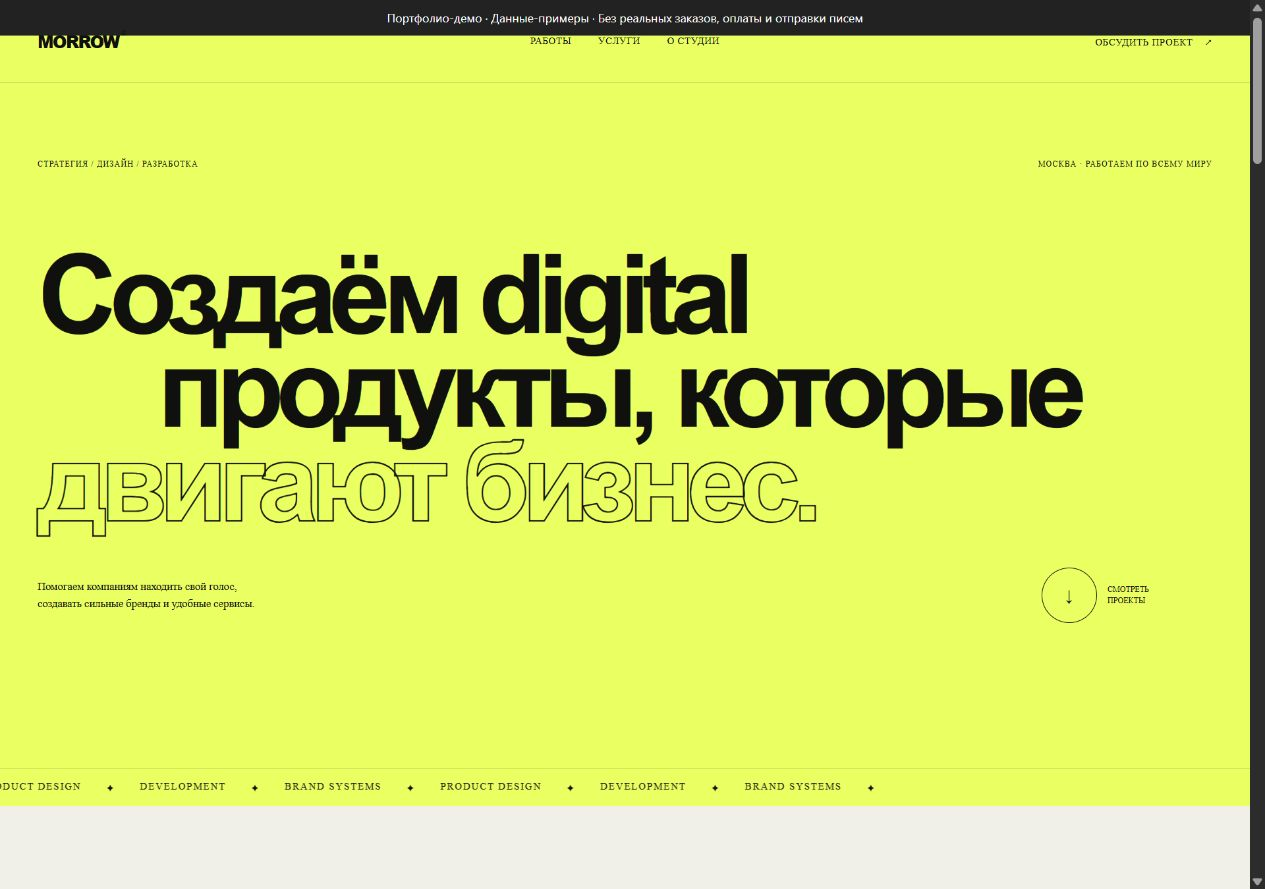
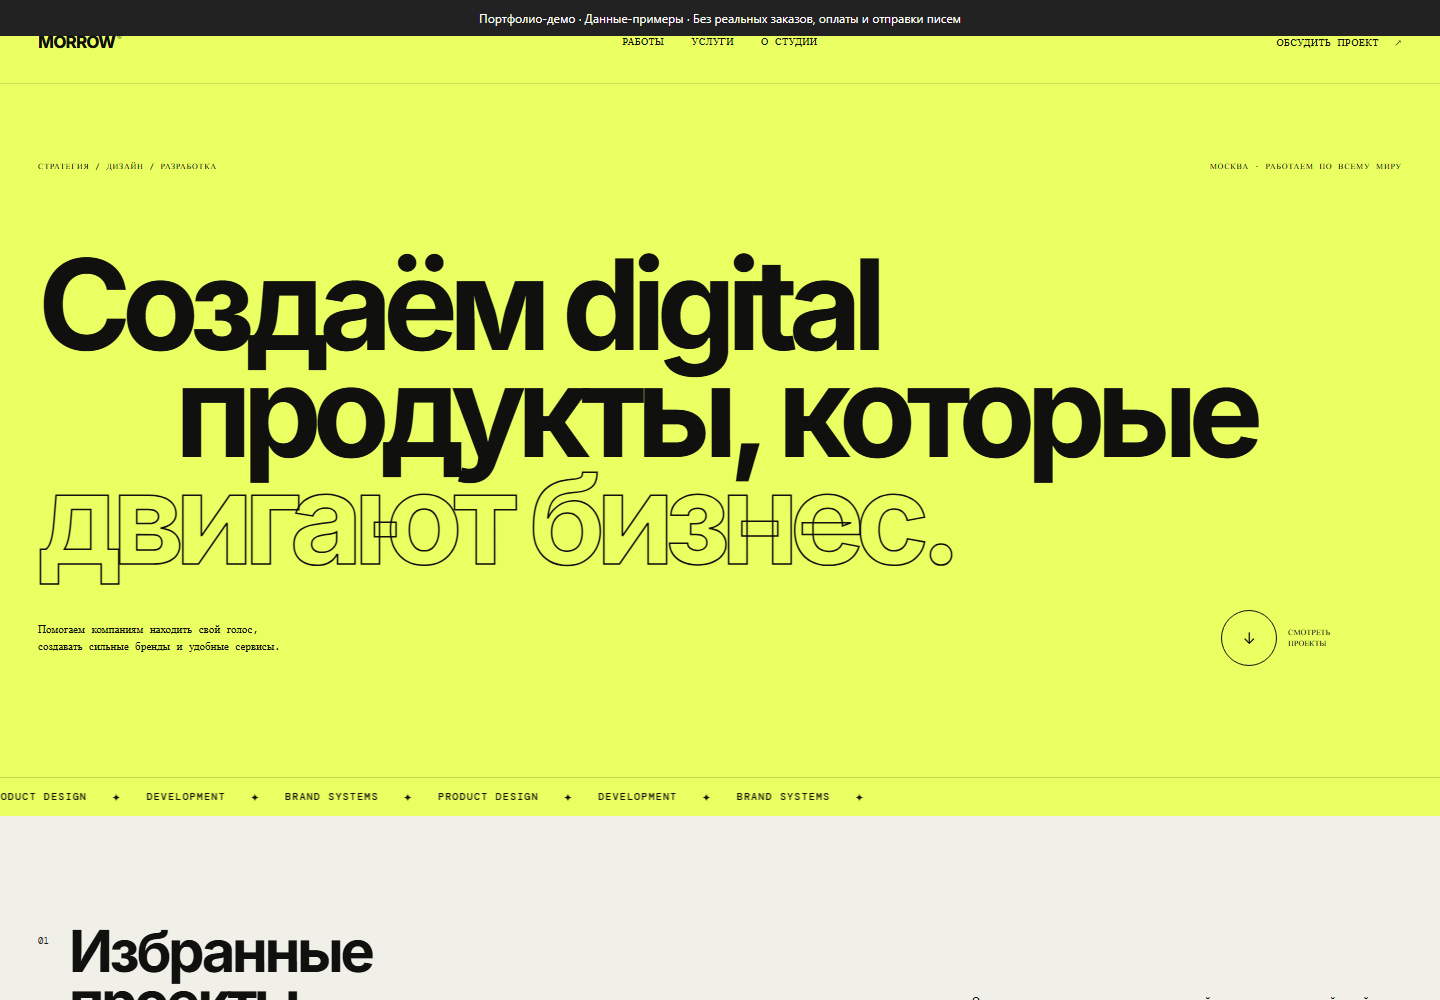
Complete responsive interactions and add browser regression checks

diff --git a/index.html b/index.html
@@ -36,7 +36,7 @@
         <article class="project project-wide" data-category="product"><a href="#case-nova"><div class="project-visual nova"><div class="nova-copy"><span>NOVA/</span><strong>Деньги.<br />Только проще.</strong><small>Мобильный банк нового поколения</small></div><div class="phone"><div class="phone-bar"><i></i><span>9:41</span></div><p>Добрый день, Алексей</p><strong>286 400 ₽</strong><div class="chart"><i></i><i></i><i></i><i></i><i></i><i></i><i></i></div><div class="bank-row"><i></i><span><b>Продукты</b><small>4 счёта</small></span><em>→</em></div><div class="bank-row"><i></i><span><b>Переводы</b><small>По номеру телефона</small></span><em>→</em></div></div></div><div class="project-caption"><div><span>01 / Product</span><h3>Nova Bank</h3></div><p>Стратегия, айдентика и мобильное приложение для цифрового банка.</p><i>↗</i></div></a></article>
         <article class="project" data-category="brand"><a href="#case-flora"><div class="project-visual flora"><span class="flora-logo">flora<sup>®</sup></span><div class="bottle"><i>F</i><span>daily<br />balance</span><small>30 CAPSULES</small></div><div class="flora-note">your routine,<br /><em>naturally.</em></div><span class="leaf one"></span><span class="leaf two"></span></div><div class="project-caption"><div><span>02 / Brand</span><h3>Flora Lab</h3></div><p>Бренд-система для линейки daily wellness.</p><i>↗</i></div></a></article>
         <article class="project" data-category="web"><a href="#case-arka"><div class="project-visual arka"><div class="arka-top"><span>ARKA</span><span>ARCHITECTURE & INTERIORS</span></div><strong>Spaces<br />with intent.</strong><div class="building"><i></i><i></i><i></i><i></i><i></i></div><small>Residential / Cultural / Workspace</small></div><div class="project-caption"><div><span>03 / Web</span><h3>Arka Bureau</h3></div><p>Сайт архитектурного бюро с фокусом на проектах.</p><i>↗</i></div></a></article>
-        <article class="project project-wide" data-category="product"><a href="#case-locus"><div class="project-visual locus"><div class="locus-nav"><strong>locus</strong><span>Explore&nbsp;&nbsp; Saved&nbsp;&nbsp; Trips</span><i>RS</i></div><div class="locus-copy"><small>STAY SOMEWHERE<br />WORTH REMEMBERING</small><strong>Find your<br />place in the wild.</strong><button>Explore stays →</button></div><div class="cabin"><span class="roof"></span><span class="wall"><i></i><i></i></span><span class="trees">♠ ♠ ♠</span></div></div><div class="project-caption"><div><span>04 / Product</span><h3>Locus Stay</h3></div><p>Сервис бронирования небольших домов вдали от города.</p><i>↗</i></div></a></article>
+        <article class="project project-wide" data-category="product"><a href="#case-locus"><div class="project-visual locus"><div class="locus-nav"><strong>locus</strong><span>Explore&nbsp;&nbsp; Saved&nbsp;&nbsp; Trips</span><i>RS</i></div><div class="locus-copy"><small>STAY SOMEWHERE<br />WORTH REMEMBERING</small><strong>Find your<br />place in the wild.</strong><span class="case-cta">Explore stays →</span></div><div class="cabin"><span class="roof"></span><span class="wall"><i></i><i></i></span><span class="trees">♠ ♠ ♠</span></div></div><div class="project-caption"><div><span>04 / Product</span><h3>Locus Stay</h3></div><p>Сервис бронирования небольших домов вдали от города.</p><i>↗</i></div></a></article>
       </div>
     </section>
 

diff --git a/styles.css b/styles.css
@@ -3,3 +3,5 @@
 @media(max-width:900px){.header{grid-template-columns:1fr auto}.header nav,.contact-link{display:none}.menu-button{display:grid;gap:4px}.menu-button span{display:block;width:22px;height:1px;background:#111}.hero{min-height:700px}.hero h1{font-size:10vw}.hero h1 span:nth-child(2){margin-left:0}.section-heading{grid-template-columns:1fr}.project-visual{height:470px!important}.service-list article{grid-template-columns:45px 1fr 1fr}.service-list article>div{display:none}.about{grid-template-columns:1fr}.contact{grid-template-columns:1fr}footer{grid-template-columns:1fr auto}footer>div{display:none}}
 @media(max-width:600px){.header{height:66px;padding:0 16px}.hero{min-height:620px;padding:95px 16px 0}.hero-meta span:last-child{display:none}.hero-meta{margin-bottom:70px}.hero h1{font-size:15vw;line-height:.88}.hero h1 .outline{-webkit-text-stroke:1px}.hero-bottom{margin-top:60px}.hero-bottom>p{font-size:8px}.circle-link{margin:0}.circle-link i{width:45px;height:45px}.work,.services{padding:80px 16px}.section-heading{margin-bottom:40px}.section-heading h2{font-size:44px}.filters{overflow:auto;margin-right:-16px}.project-grid{display:block}.project{margin-bottom:48px}.project-visual{height:400px!important}.project-caption{grid-template-columns:1fr 26px}.project-caption>p{display:none}.nova-copy>strong{font-size:42px}.phone{right:-40px;top:17%;transform:scale(.7) rotate(5deg);transform-origin:top}.flora-note{font-size:16px}.locus-copy strong{font-size:42px}.cabin{filter:brightness(.75)}.service-list article{grid-template-columns:30px 1fr;padding:25px 0}.service-list article>p{grid-column:2}.about{gap:60px;padding:90px 16px}.about-number strong{font-size:130px}.about-copy h2{font-size:31px}.about-copy>div{grid-template-columns:1fr}.contact{padding:80px 16px;gap:60px}.contact h2{font-size:45px}footer{padding:28px 16px}.cursor-dot{display:none}}
 
+
+.case-dialog{width:min(560px,92vw);padding:32px;border:1px solid #aaa;border-radius:18px;background:#f7f7f0;color:#222}.case-dialog::backdrop{background:#111b}.case-dialog>button{float:right;border:0;background:none;font-size:26px;cursor:pointer}.case-dialog h2{font-size:28px}.case-dialog p{line-height:1.7}.case-dialog small{display:block;line-height:1.6;color:#666}.case-cta{display:inline-block;padding:10px 18px;border-radius:30px;background:#222;color:white}button:focus-visible,a:focus-visible{outline:3px solid #777;outline-offset:3px}@media(max-width:700px){header nav.mobile-open{position:absolute;top:70px;right:16px;display:flex!important;flex-direction:column;gap:20px;padding:25px;background:#f6f6ee;border:1px solid #aaa;border-radius:12px;z-index:100}}

diff --git a/script.js b/script.js
@@ -37,3 +37,9 @@ const observer = new IntersectionObserver((entries) => {
 }, { threshold: 0.12 });
 document.querySelectorAll('.project, .service-list article').forEach((item) => observer.observe(item));
 
+
+const menuButton=document.querySelector('.menu-button');
+menuButton.addEventListener('click',()=>{const open=document.querySelector('header nav').classList.toggle('mobile-open');menuButton.setAttribute('aria-expanded',String(open));menuButton.setAttribute('aria-label',open?'Закрыть меню':'Открыть меню');});
+document.querySelectorAll('header nav a').forEach(a=>a.addEventListener('click',()=>{document.querySelector('header nav').classList.remove('mobile-open');menuButton.setAttribute('aria-expanded','false');menuButton.setAttribute('aria-label','Открыть меню');}));
+const caseDialog=document.createElement('dialog');caseDialog.className='case-dialog';caseDialog.innerHTML='<button type="button" aria-label="Закрыть описание">×</button><h2></h2><p></p><small>Визуальная концепция для портфолио. Компания и содержание кейса вымышлены.</small>';document.body.append(caseDialog);caseDialog.querySelector('button').onclick=()=>caseDialog.close();
+document.querySelectorAll('a[href^="#case-"]').forEach(a=>a.addEventListener('click',e=>{e.preventDefault();caseDialog.querySelector('h2').textContent=a.querySelector('h3')?.textContent||'Концепция';caseDialog.querySelector('p').textContent=a.querySelector('p')?.textContent||'';caseDialog.showModal();}));

diff --git a/README.md b/README.md
@@ -36,7 +36,7 @@ python -m http.server 8080
 
 ## Границы готовности
 - Morrow, её команда, стаж, кейсы и контакты — вымышленный контент для портфолио.
-- Бэкенд формы и отправка писем отсутствуют. Некоторые ссылки кейсов — макетные.
+- Бэкенд формы и отправка писем отсутствуют. Карточки открывают описание вымышленных кейсов внутри страницы.
 
 ## Подробности
 [API, конфигурация и исходные инструкции](docs/TECHNICAL.md).
